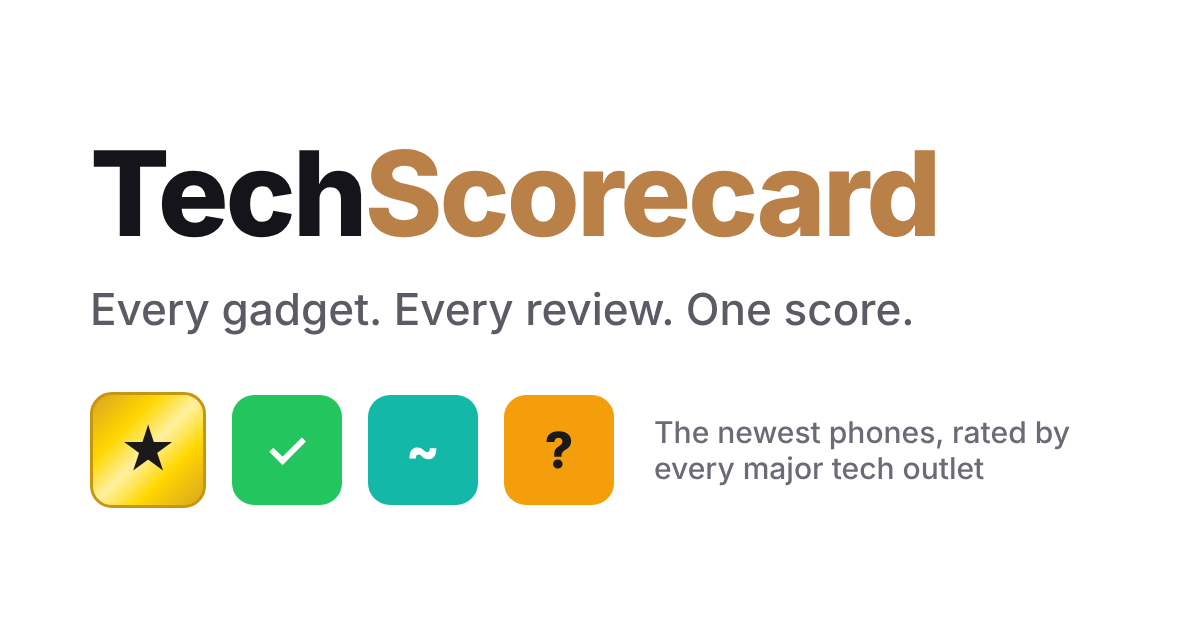
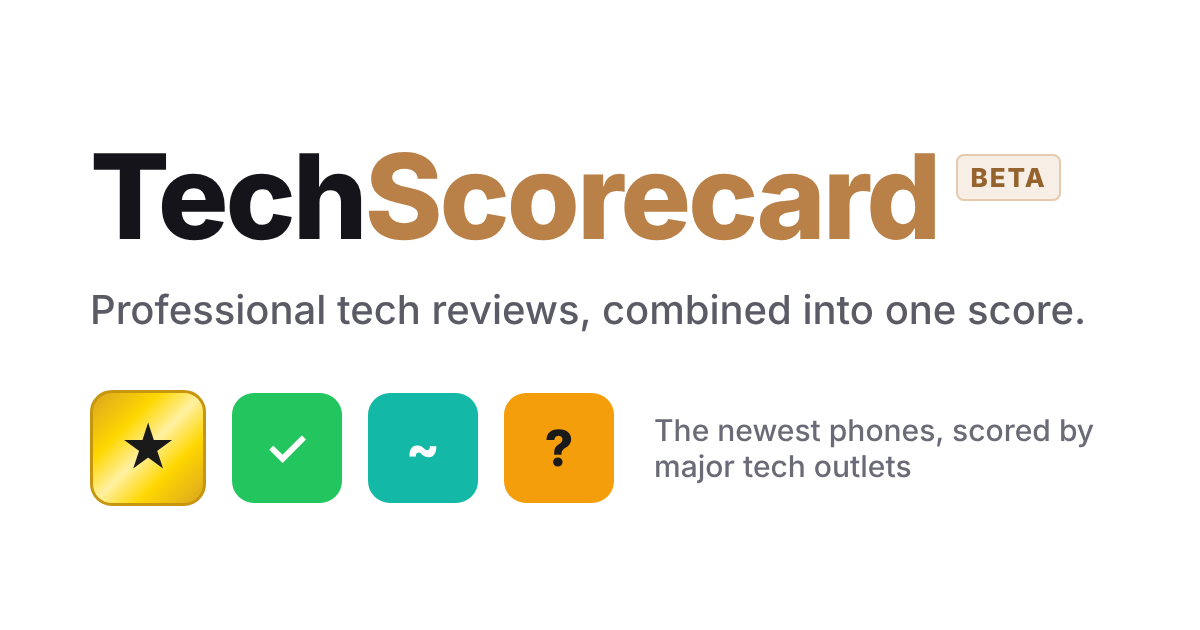
Beta launch copy + review fixes
- Beta pill on the wordmark (header, hero, footer, share image), Broadway
  Scorecard's beta-market style. Tagline no longer claims "every gadget,
  every review"; home and footer say more gadgets and reviews are coming.
- Home: one-line explainer linking to how scores work.
- Product Open Graph keeps site name and type.
- Filter shows only the chosen category (new categories can't leak), focus
  ring contrast, larger pills, no empty radiogroup role.
- validate-data checks category and art.kind; import-product rolls data back
  if validation fails and refuses outlet-id/domain clashes; verify-quotes
  ignores script/metadata text, keeps inline-tag words together, treats
  timeouts as BLOCKED.
- No horizontal scroll at 320/360/390/768/1280 on home, products, methodology.

Claude-Session: https://claude.ai/code/session_0135aDZqfJ8tNZhKScyFhsmd

diff --git a/src/app/globals.css b/src/app/globals.css
@@ -66,7 +66,7 @@
   .by-score:checked ~ .sort-labels .lbl-score,
   .by-date:checked ~ .sort-labels .lbl-date { @apply text-ink font-semibold; }
   .by-score:focus-visible ~ .sort-labels .lbl-score,
-  .by-date:focus-visible ~ .sort-labels .lbl-date { @apply outline outline-2 outline-brand rounded; }
+  .by-date:focus-visible ~ .sort-labels .lbl-date { @apply outline outline-2 outline-brand-ink rounded; }
   .sort-toggle .list-date { display: none; }
   .by-date:checked ~ .list-score { display: none; }
   .by-date:checked ~ .list-date { display: block; }
@@ -74,15 +74,16 @@
   /* Home category filter: pure CSS radios, same approach as the sort toggle */
   .cat-filter { position: relative; }
   .cat-filter > input { position: absolute; opacity: 0; pointer-events: none; }
-  .filter-labels label { @apply cursor-pointer rounded-pill border border-line bg-surface px-4 py-1.5 text-sm font-semibold text-ink-muted hover:border-line-strong; }
+  .filter-labels label { @apply cursor-pointer rounded-pill border border-line bg-surface px-4 py-2.5 text-sm font-semibold text-ink-muted hover:border-line-strong; }
   .f-all:checked ~ .filter-labels .lbl-all,
   .f-phone:checked ~ .filter-labels .lbl-phone,
   .f-foldable:checked ~ .filter-labels .lbl-foldable { @apply border-ink bg-ink text-white; }
   .f-all:focus-visible ~ .filter-labels .lbl-all,
   .f-phone:focus-visible ~ .filter-labels .lbl-phone,
-  .f-foldable:focus-visible ~ .filter-labels .lbl-foldable { @apply outline outline-2 outline-offset-2 outline-brand; }
-  .f-phone:checked ~ .cat-list [data-cat='foldable'],
-  .f-foldable:checked ~ .cat-list [data-cat='phone'] { display: none; }
+  .f-foldable:focus-visible ~ .filter-labels .lbl-foldable { @apply outline outline-2 outline-offset-2 outline-brand-ink; }
+  /* Show only the chosen category, so a new category never leaks into another filter */
+  .f-phone:checked ~ .cat-list > :not([data-cat='phone']),
+  .f-foldable:checked ~ .cat-list > :not([data-cat='foldable']) { display: none; }
 
   details.more > summary { list-style: none; }
   details.more > summary::-webkit-details-marker { display: none; }

diff --git a/src/app/page.tsx b/src/app/page.tsx
@@ -1,3 +1,4 @@
+import Link from 'next/link';
 import { getAllProducts, getTotals } from '@/lib/data';
 import { MiniProductCard, ProductListCard } from '@/components/product-cards';
 import { Logo } from '@/components/Header';
@@ -15,10 +16,14 @@ export default function HomePage() {
   return (
     <div className="mx-auto max-w-3xl px-4 sm:px-6">
       <section className="pb-8 pt-12 sm:pt-16">
-        <h1><Logo className="text-5xl sm:text-7xl" /></h1>
-        <p className="mt-4 text-xl text-ink-muted sm:text-2xl">Every gadget. Every review. One score.</p>
+        <h1><Logo className="text-[clamp(32px,11vw,44px)] sm:text-7xl" beta="lg" /></h1>
+        <p className="mt-4 text-xl text-ink-muted sm:text-2xl">Professional tech reviews, combined into one score.</p>
         <p className="mt-1 text-base text-ink-faint sm:text-lg">
-          {totals.products} products. {totals.reviews} critic reviews from {totals.outlets} outlets. And counting.
+          {totals.products} phones and {totals.reviews} critic reviews from {totals.outlets} outlets so far. More gadgets and reviews are on the way.
+        </p>
+        <p className="mt-3 max-w-[60ch] text-sm text-ink-muted">
+          Each score is a weighted average of professional reviews, with bigger outlets counting more.{' '}
+          <Link href="/methodology/" className="font-semibold text-brand-ink underline underline-offset-2">How scores work</Link>
         </p>
       </section>
 
@@ -39,7 +44,7 @@ export default function HomePage() {
         {FILTERS.map((f) => (
           <input key={f.id} type="radio" name="cat" id={`cat-${f.id}`} className={`f-${f.id}`} defaultChecked={f.id === 'all'} />
         ))}
-        <div className="filter-labels mb-4 flex gap-2" role="radiogroup" aria-label="Filter by type">
+        <div className="filter-labels mb-4 flex gap-2">
           {FILTERS.map((f) => (
             <label key={f.id} htmlFor={`cat-${f.id}`} className={`lbl-${f.id}`}>{f.label}</label>
           ))}

diff --git a/src/components/Header.tsx b/src/components/Header.tsx
@@ -1,10 +1,18 @@
 import Link from 'next/link';
 
-export function Logo({ className = '' }: { className?: string }) {
+export function Logo({ className = '', beta = 'sm' }: { className?: string; beta?: 'sm' | 'lg' | false }) {
+  // Beta pill sized like Broadway Scorecard's West End / Opera beta markers.
+  const pill = beta === 'lg'
+    ? 'relative -top-3 ml-2 px-1.5 py-0.5 text-[10px] sm:-top-6 sm:text-xs'
+    : 'relative -top-2 ml-1 px-1 py-px text-[9px]';
   return (
-    <span className={`font-extrabold tracking-tight ${className}`}>
+    <span className={`whitespace-nowrap font-extrabold tracking-tight ${className}`}>
       <span className="text-ink">Tech</span><span className="text-brand-logo">Scorecard</span>
-      <span className="align-top text-[0.35em] font-semibold text-ink-faint">™</span>
+      {beta && (
+        <span className={`${pill} inline-block rounded border border-brand/40 leading-none bg-brand-muted align-middle font-bold uppercase tracking-wider text-brand-ink`}>
+          Beta
+        </span>
+      )}
     </span>
   );
 }
@@ -13,9 +21,9 @@ export function Header() {
   return (
     <header className="sticky top-0 z-30 border-b border-line bg-white/90 backdrop-blur">
       <div className="mx-auto flex h-16 max-w-6xl items-center justify-between gap-4 px-4 sm:px-6">
-        <Link href="/" aria-label="Tech Scorecard home"><Logo className="text-2xl sm:text-[28px]" /></Link>
+        <Link href="/" aria-label="Tech Scorecard home"><Logo className="text-xl min-[360px]:text-2xl sm:text-[28px]" /></Link>
         <nav className="flex items-center gap-4 whitespace-nowrap text-sm font-medium text-ink-muted sm:gap-5">
-          <Link href="/" className="hover:text-ink">Phones</Link>
+          <Link href="/" className="hidden hover:text-ink sm:inline">Phones</Link>
           <Link href="/methodology/" className="hover:text-ink">Methodology</Link>
         </nav>
       </div>

diff --git a/scripts/import-product.js b/scripts/import-product.js
@@ -22,7 +22,11 @@ for (const f of files) {
   const { product, reviews: incoming, newOutlets = [] } = JSON.parse(fs.readFileSync(f, 'utf8'));
   if (!product || !product.id || !Array.isArray(incoming)) throw new Error(`${f}: needs product.id and reviews[]`);
   for (const o of newOutlets) {
-    const clash = outlets.find((x) => x.id === o.id || x.domain === o.domain);
+    const bare = (d) => d.replace(/^www\./, '');
+    const clash = outlets.find((x) => x.id === o.id || bare(x.domain) === bare(o.domain));
+    if (clash && clash.id === o.id && bare(clash.domain) !== bare(o.domain)) {
+      throw new Error(`${f}: outlet id "${o.id}" already exists with domain ${clash.domain}, not ${o.domain}`);
+    }
     if (!clash) outlets.push({ id: o.id, name: o.name, tier: o.tier, domain: o.domain });
     else if (clash.id !== o.id) {
       // Same domain under another id: point the reviews at the existing outlet.
@@ -34,7 +38,15 @@ for (const f of files) {
   console.log(`${product.id}: ${incoming.length} reviews`);
 }
 
+// Write, validate, and roll back on failure so bad data never stays on disk.
+const backup = Object.fromEntries(['products.json', 'reviews.json', 'outlets.json'].map((f) => [f, fs.readFileSync(path.join(DATA, f), 'utf8')]));
 save('products.json', products);
 save('reviews.json', reviews);
 save('outlets.json', outlets);
-execFileSync('node', [path.join(__dirname, 'validate-data.js')], { stdio: 'inherit' });
+try {
+  execFileSync('node', [path.join(__dirname, 'validate-data.js')], { stdio: 'inherit' });
+} catch {
+  for (const [f, text] of Object.entries(backup)) fs.writeFileSync(path.join(DATA, f), text);
+  console.error('Validation failed: data/ restored to its previous state.');
+  process.exit(1);
+}

diff --git a/src/app/layout.tsx b/src/app/layout.tsx
@@ -5,13 +5,13 @@ import { Footer } from '@/components/Footer';
 
 export const metadata: Metadata = {
   metadataBase: new URL('https://www.thetechscorecard.com'),
-  title: 'Tech Scorecard: every gadget, every review, one score',
-  description: 'Tech Scorecard aggregates professional reviews of new phones and gadgets into one weighted critic score.',
+  title: 'Tech Scorecard (Beta): tech reviews, one score',
+  description: 'Tech Scorecard (beta) combines professional reviews of new phones into one weighted critic score.',
   openGraph: {
     siteName: 'Tech Scorecard',
     type: 'website',
-    title: 'Tech Scorecard: every gadget, every review, one score',
-    description: 'Every major tech review of the newest phones, averaged into one critic score.',
+    title: 'Tech Scorecard (Beta): tech reviews, one score',
+    description: 'Reviews of the newest phones from major tech outlets, combined into one critic score. In beta, with more gadgets on the way.',
   },
   twitter: { card: 'summary_large_image' },
 };

diff --git a/src/app/methodology/page.tsx b/src/app/methodology/page.tsx
@@ -49,11 +49,11 @@ export default function MethodologyPage() {
         <h2 className="section-label">3. The score sets the label</h2>
         <ul className="mt-3 space-y-2 text-sm">
           {RANGES.map(([key, range]) => (
-            <li key={key} className="flex items-center gap-3">
+            <li key={key} className="flex flex-wrap items-center gap-x-3 gap-y-1">
               <span className={`score-badge ${SCORE_TIERS[key].badgeClass} h-8 w-8 rounded-md text-xs`}>{range.split('-')[0]}</span>
               <span className="w-28 shrink-0 font-semibold">{SCORE_TIERS[key].label}</span>
               <span className="w-16 shrink-0 tabular-nums text-ink-faint">{range}</span>
-              <span className="min-w-0 text-ink-muted">{SCORE_TIERS[key].blurb}</span>
+              <span className="min-w-0 basis-full pl-11 text-ink-muted sm:basis-auto sm:flex-1 sm:pl-0">{SCORE_TIERS[key].blurb}</span>
             </li>
           ))}
         </ul>

diff --git a/src/components/Footer.tsx b/src/components/Footer.tsx
@@ -6,9 +6,9 @@ export function Footer() {
     <footer className="mt-16 border-t border-line bg-surface-overlay">
       <div className="mx-auto flex max-w-3xl flex-col items-center gap-3 px-4 py-10 text-center text-sm text-ink-muted">
         <Logo className="text-xl" />
-        <p>Every gadget. Every review. One score.</p>
+        <p>Professional tech reviews, combined into one score.</p>
         <p className="text-xs text-ink-faint">
-          Proof of concept. Scores are tier-weighted averages of published reviews; excerpts link to the original articles.
+          Beta: we&apos;re still adding gadgets and reviews. Scores are tier-weighted averages of published reviews; excerpts link to the original articles.
           {' '}<Link href="/methodology/" className="underline underline-offset-2 hover:text-ink">Methodology</Link>
         </p>
       </div>

diff --git a/src/app/product/[slug]/page.tsx b/src/app/product/[slug]/page.tsx
@@ -19,7 +19,7 @@ export async function generateMetadata({ params }: { params: Promise<Params> }):
   if (!p) return {};
   const score = p.criticScore != null ? ` ${Math.round(p.criticScore)}/100` : '';
   const title = `${p.name} reviews:${score} critic score | Tech Scorecard`;
-  return { title, description: p.criticsTake, openGraph: { title, description: p.criticsTake, url: `/product/${p.slug}/`, images: [{ url: '/opengraph-image.png', width: 1200, height: 630 }] } };
+  return { title, description: p.criticsTake, openGraph: { siteName: 'Tech Scorecard', type: 'website', title, description: p.criticsTake, url: `/product/${p.slug}/`, images: [{ url: '/opengraph-image.png', width: 1200, height: 630 }] } };
 }
 
 export default async function ProductPage({ params }: { params: Promise<Params> }) {

diff --git a/scripts/validate-data.js b/scripts/validate-data.js
@@ -28,6 +28,9 @@ for (const o of outlets) {
 for (const p of products) {
   if (!ISO.test(p.releaseDate)) errors.push(`product ${p.id}: bad releaseDate`);
   for (const k of ['criticsTake', 'loved', 'gripes', 'specs', 'art']) if (!p[k]) errors.push(`product ${p.id}: missing ${k}`);
+  // The home filter and DeviceArt only know these values; add a new one there first.
+  if (!['phone', 'foldable'].includes(p.category)) errors.push(`product ${p.id}: unknown category "${p.category}"`);
+  if (p.art && !['phone', 'foldable', 'flip'].includes(p.art.kind)) errors.push(`product ${p.id}: unknown art.kind "${p.art.kind}"`);
 }
 
 /** "4.5/5" -> 90, "9/10" -> 90, "4 stars" (out of 5) -> 80. null when the format is not numeric. */

diff --git a/scripts/verify-quotes.py b/scripts/verify-quotes.py
@@ -16,8 +16,16 @@ UA = 'Mozilla/5.0 (Macintosh; Intel Mac OS X 10_15_7) AppleWebKit/537.36 (KHTML,
 QUOTES = {'’': "'", '‘': "'", '“': '"', '”': '"', '–': '-', '—': '-'}
 
 
-def norm(s):
-    s = unicodedata.normalize('NFKC', html.unescape(re.sub(r'<[^>]+>', ' ', s)))
+def norm(s, page=False):
+    if page:
+        # Quotes must come from the article body, not metadata or related-article teasers.
+        s = re.sub(r'<(script|style|noscript)\b.*?</\1>', ' ', s, flags=re.S | re.I)
+        # Inline tags vanish (Pixel</a>'s stays one word); block tags become spaces.
+        s = re.sub(r'</?(p|div|br|li|h[1-6]|section|article|blockquote|figure|figcaption|td|tr)\b[^>]*>', ' ', s, flags=re.I)
+        s = re.sub(r'<[^>]+>', '', s)
+    else:
+        s = re.sub(r'<[^>]+>', ' ', s)
+    s = unicodedata.normalize('NFKC', html.unescape(s))
     for a, b in QUOTES.items():
         s = s.replace(a, b)
     return re.sub(r'\s+', ' ', s.replace('\\"', '"')).strip().lower()
@@ -26,7 +34,7 @@ def norm(s):
 def fetch(url):
     out = subprocess.run(['curl', '-sL', '-A', UA, '-m', '30', '-w', '\n%{http_code}', url], capture_output=True, text=True, errors='ignore').stdout
     body, _, code = out.rpartition('\n')
-    return code, norm(body)
+    return code, norm(body, page=True)
 
 
 def candidates(url):
@@ -37,14 +45,15 @@ def candidates(url):
 
 
 def check(r):
-    want = norm(r['excerpt']).rstrip('.')
+    want = norm(r['excerpt']).rstrip('.!?…')
     first_code = None
     for u in candidates(r['url']):
         code, page = fetch(u)
         first_code = first_code or code
         if want in page:
             return 'FULL', r, u
-    return ('BLOCKED' if first_code in ('403', '429', '451', '503') else 'MISS'), r, first_code
+    # 000 = timeout/connection failure: not evidence the quote is wrong.
+    return ('BLOCKED' if first_code in ('000', '403', '429', '451', '503') else 'MISS'), r, first_code
 
 
 def main():

diff --git a/README.md b/README.md
@@ -1,6 +1,6 @@
 # Tech Scorecard (proof of concept)
 
-Every gadget. Every review. One score. A light-theme port of the Broadway Scorecard
+Professional tech reviews, combined into one score (beta). A light-theme port of the Broadway Scorecard
 layout and scoring method to tech reviews, starting with three phones:
 iPhone Duo, iPhone 18 Pro and Samsung Galaxy Z Fold 8.
 
